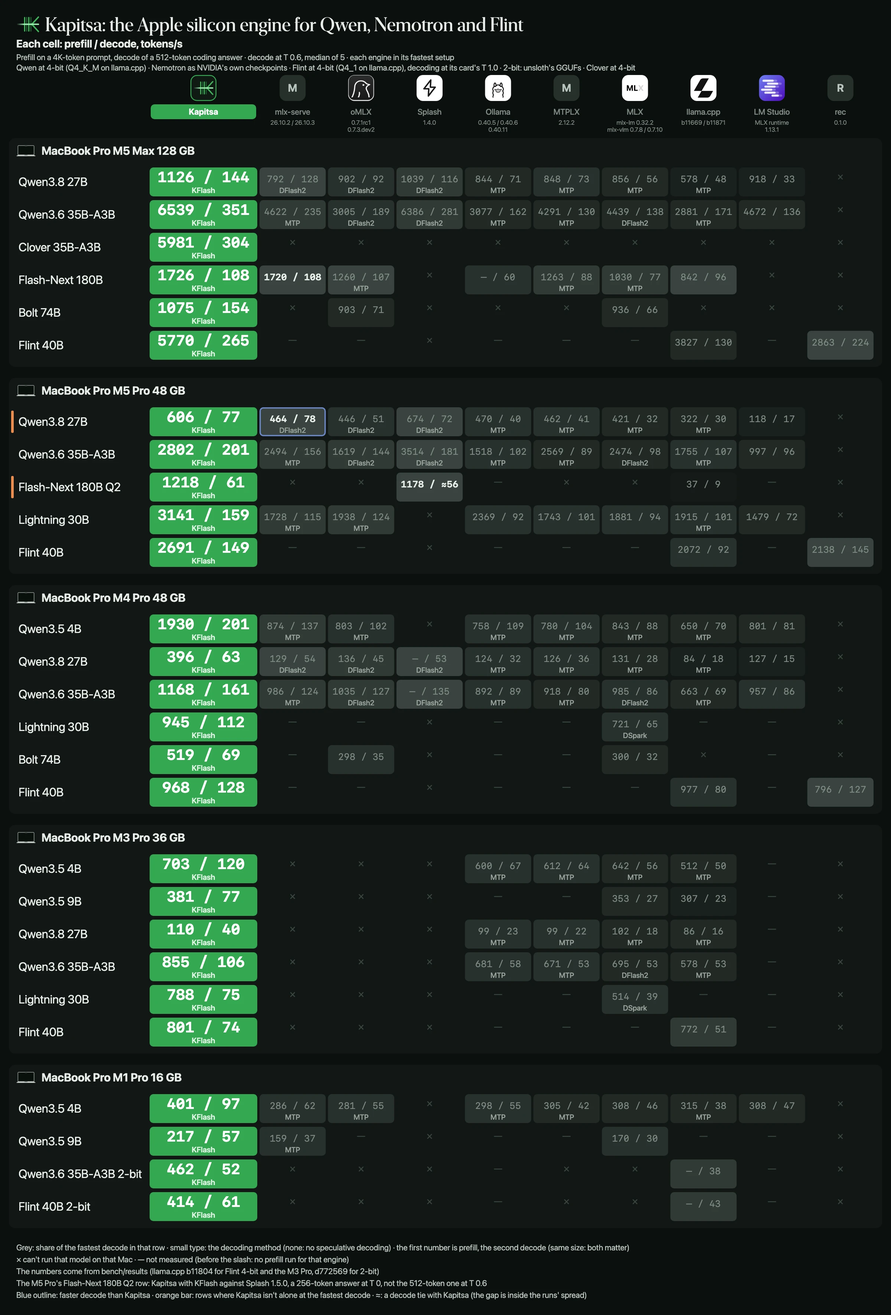
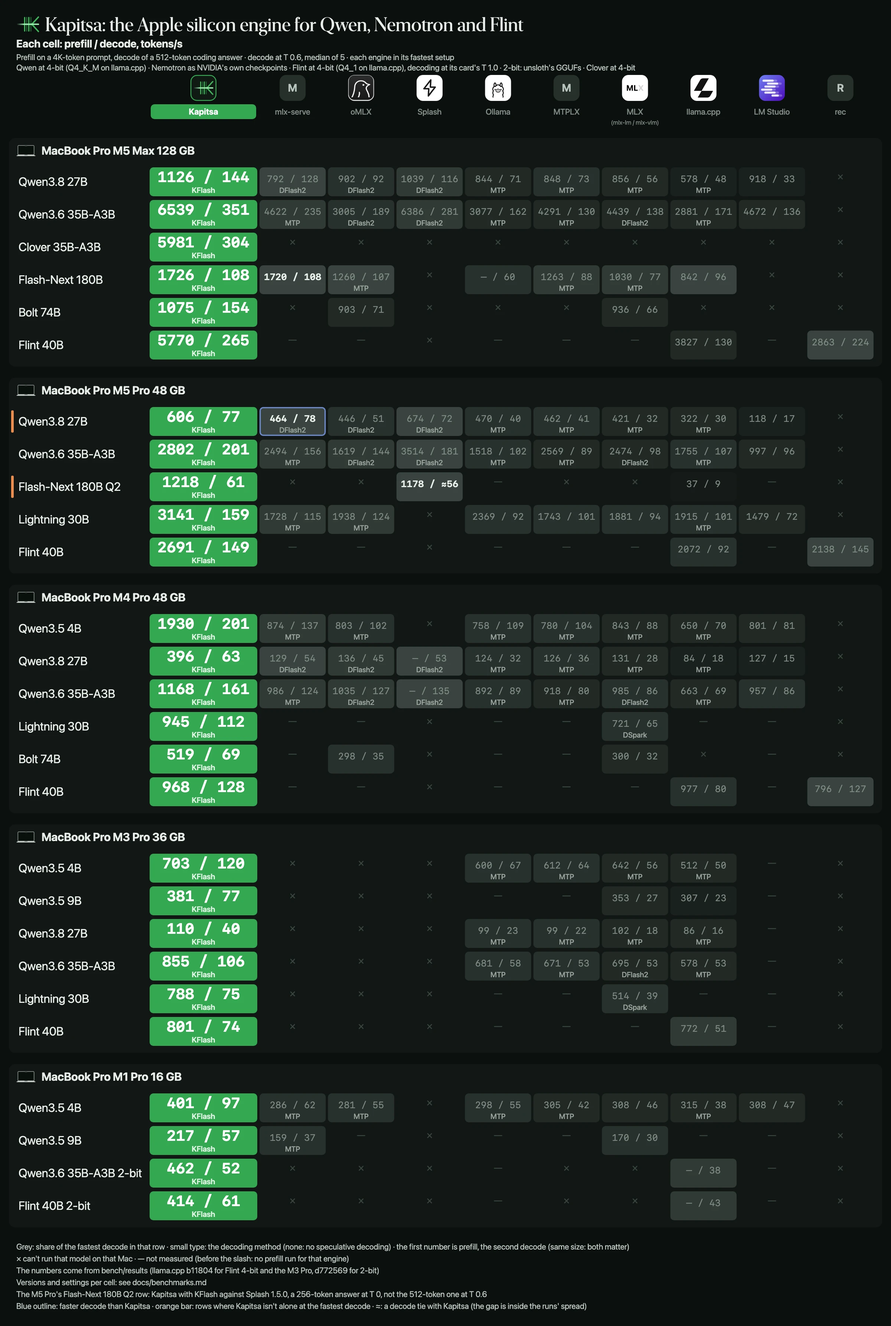
README poster: rival versions per cell, not per column
Column headers name the engine (MLX reads (mlx-lm / mlx-vlm)); each rival cell carries its own version in its detail, from the header it had before. Poster footer points at docs/benchmarks.md. Test: every rival cell has a version in its detail or a line in docs/benchmarks.md.

diff --git a/tests/test_readme_images.py b/tests/test_readme_images.py
@@ -44,4 +44,20 @@ for kind in ("prefill", "decode"):
     html, w, h = ri.context_chart(data, "light", kind)
     assert html.count("<polyline") == 2 * len(C["models"]) and w == data["poster"]["size"][0], kind  # line, leader
     assert ri.context_alt(data, kind).startswith(C[kind]["alt"] + ": " + C["models"][0]["model"]), kind
+# column headers name an engine, never a version, so every rival number carries its version in its own cell detail
+# (tables and README), or else the line that names it in docs/benchmarks.md, which the poster footer points at
+import re
+docs = open(os.path.join(HERE, "..", "docs", "benchmarks.md"), encoding="utf-8").read().split("\n")
+assert not any(e.get("version") and e["name"] != "MLX" for e in data["engines"]), "a rival column header names a version"
+assert not any(re.search(r"\d", v) for m in data["tables"]["macs"] for v in m.get("versions", {}).values()), "a Mac's header names a version"
+rival_cells = [(m["name"], r["model"], e, c) for m in data["poster"]["macs"] + data["tables"]["macs"] for r in m["rows"]
+               for e, c in r["cells"].items() if e != "Kapitsa" and isinstance(c, (dict, int, float)) and not isinstance(c, bool)]
+assert rival_cells
+for mac, model, e, c in rival_cells:
+    detail = c.get("detail", "") if isinstance(c, dict) else ""
+    in_docs = any(e.split()[0] in line and re.search(r"\d+\.\d+|\bb\d{4,5}\b", line) for line in docs)
+    assert re.search(r"\d", detail) or in_docs, f"{mac} / {model} / {e}: no version in its detail or in docs/benchmarks.md"
+for e in {e for _, _, e, _ in rival_cells}:  # the footer's claim: the doc names a version for every rival engine on the poster
+    assert any(e.split()[0] in line and re.search(r"\d+\.\d+|\bb\d{4,5}\b", line) for line in docs), f"docs/benchmarks.md names no version for {e}"
+assert any("docs/benchmarks.md" in x for x in data["poster"]["footer"])
 print(f"test_readme_images: ok ({n} Kapitsa cells)")

diff --git a/README.md b/README.md
@@ -145,21 +145,21 @@ The catalog models measured on each Mac, against the engines that run them: one 
 
 **Qwen and Nemotron**
 
-| Model | <mark>**Kapitsa**</mark> | <sub>mlx‑serve<br>26.10.2 / 26.10.3</sub> | <sub>oMLX<br>0.7.1rc1 / 0.7.3.dev2</sub> | <sub>Splash<br>1.4.0</sub> | <sub>Ollama<br>0.40.5 / 0.40.11</sub> | <sub>MTPLX<br>2.12.2</sub> | <sub>MLX<br>mlx-vlm 0.7.8 / 0.7.10</sub> | <sub>llama.cpp<br>b11669 / b11871</sub> | <sub>LM&nbsp;Studio<br>MLX runtime 1.13.1 (nax), llama.cpp runtime 2.60.0</sub> |
+| Model | <mark>**Kapitsa**</mark> | <sub>mlx‑serve</sub> | <sub>oMLX</sub> | <sub>Splash</sub> | <sub>Ollama</sub> | <sub>MTPLX</sub> | <sub>MLX<br>(mlx-lm / mlx-vlm)</sub> | <sub>llama.cpp</sub> | <sub>LM&nbsp;Studio</sub> |
 | --- | ---: | ---: | ---: | ---: | ---: | ---: | ---: | ---: | ---: |
-| **Qwen3.8-27B** · `27b`<br><sub>dense · 4-bit, 20.2 GB</sub> | 🟩 1126 / **144**<br><sub>KFlash · 7afb51d</sub> | 792 / 128<br><sub>DFlash2 · 26.10.3</sub> | 902 / 92<br><sub>DFlash2 · 0.7.3.dev2</sub> | 1039 / 116<br><sub>DFlash2</sub> | 844 / 71<br><sub>MTP · 0.40.11, MLX runner</sub> | 848 / 73<br><sub>MTP</sub> | 856 / 56<br><sub>MTP · mlx-vlm 0.7.10</sub> | 578 / 48<br><sub>MTP · b11871</sub> | 918 / 33<br><sub>MLX runtime 1.13.1 (nax)</sub> |
-| **Qwen3.6-35B-A3B** · `35b`<br><sub>MoE, 3B active · 4-bit, 22.1 GB</sub> | 🟩 6539 / **351**<br><sub>KFlash · 39f20c8</sub> | 4622 / 235<br><sub>MTP · 26.10.3</sub> | 3005 / 189<br><sub>DFlash2 · 0.7.3.dev2</sub> | 6386 / 281<br><sub>DFlash2</sub> | 3077 / 162<br><sub>MTP · 0.40.11, MLX runner</sub> | 4291 / 130<br><sub>MTP</sub> | 4439 / 138<br><sub>DFlash2 · mlx-vlm 0.7.10</sub> | 2881 / 171<br><sub>MTP · b11669</sub> | 4672 / 136<br><sub>MLX runtime 1.13.1 (nax)</sub> |
-| **Qwen3.8-Flash-Next 180B-A7B** · `flash-next`<br><sub>MoE, 7B active · 4-bit, 105.9 GB</sub> | 🟩 1726 / **108**<br><sub>KFlash · af7d795</sub> | 🟩 1720 / **108**<br><sub>26.10.2</sub> | 1260 / 107<br><sub>MTP · 0.7.1rc1</sub> | × | 60<br><sub>0.40.6</sub> | 1263 / 88<br><sub>MTP</sub> | 1030 / 77<br><sub>MTP · mlx-vlm 0.7.8</sub> | 842 / 96<br><sub>b11669</sub> | × |
+| **Qwen3.8-27B** · `27b`<br><sub>dense · 4-bit, 20.2 GB</sub> | 🟩 1126 / **144**<br><sub>KFlash · 7afb51d</sub> | 792 / 128<br><sub>DFlash2 · 26.10.3</sub> | 902 / 92<br><sub>DFlash2 · 0.7.3.dev2</sub> | 1039 / 116<br><sub>DFlash2 · 1.4.0</sub> | 844 / 71<br><sub>MTP · 0.40.11, MLX runner</sub> | 848 / 73<br><sub>MTP · 2.12.2</sub> | 856 / 56<br><sub>MTP · mlx-vlm 0.7.10</sub> | 578 / 48<br><sub>MTP · b11871</sub> | 918 / 33<br><sub>MLX runtime 1.13.1 (nax)</sub> |
+| **Qwen3.6-35B-A3B** · `35b`<br><sub>MoE, 3B active · 4-bit, 22.1 GB</sub> | 🟩 6539 / **351**<br><sub>KFlash · 39f20c8</sub> | 4622 / 235<br><sub>MTP · 26.10.3</sub> | 3005 / 189<br><sub>DFlash2 · 0.7.3.dev2</sub> | 6386 / 281<br><sub>DFlash2 · 1.4.0</sub> | 3077 / 162<br><sub>MTP · 0.40.11, MLX runner</sub> | 4291 / 130<br><sub>MTP · 2.12.2</sub> | 4439 / 138<br><sub>DFlash2 · mlx-vlm 0.7.10</sub> | 2881 / 171<br><sub>MTP · b11669</sub> | 4672 / 136<br><sub>MLX runtime 1.13.1 (nax)</sub> |
+| **Qwen3.8-Flash-Next 180B-A7B** · `flash-next`<br><sub>MoE, 7B active · 4-bit, 105.9 GB</sub> | 🟩 1726 / **108**<br><sub>KFlash · af7d795</sub> | 🟩 1720 / **108**<br><sub>26.10.2</sub> | 1260 / 107<br><sub>MTP · 0.7.1rc1</sub> | × | 60<br><sub>0.40.6</sub> | 1263 / 88<br><sub>MTP · 2.12.2</sub> | 1030 / 77<br><sub>MTP · mlx-vlm 0.7.8</sub> | 842 / 96<br><sub>b11669</sub> | × |
 | **Nemotron Dory1.0 4B** · `dory`<br><sub>looped dense · NVFP4, 3.2 GB</sub> | 🟩 **122**<br><sub>KFlash · 7f4e709</sub> | × | × | × | × | × | 76<br><sub>mlx-vlm 0.7.8</sub> | 9<br><sub>b11669</sub> | × |
-| **Nemotron 3.5 Lightning 30B-A3B** · `lightning`<br><sub>hybrid MoE, 3B active · NVFP4, 22.9 GB</sub> | 🟩 **287**<br><sub>KFlash · 7f4e709</sub> | 190<br><sub>26.10.2</sub> | 190<br><sub>0.7.1rc1</sub> | × | 153<br><sub>0.40.5</sub> | 131 | 139<br><sub>mlx-vlm 0.7.8</sub> | 159<br><sub>b11669</sub> | 110<br><sub>llama.cpp runtime 2.60.0</sub> |
+| **Nemotron 3.5 Lightning 30B-A3B** · `lightning`<br><sub>hybrid MoE, 3B active · NVFP4, 22.9 GB</sub> | 🟩 **287**<br><sub>KFlash · 7f4e709</sub> | 190<br><sub>26.10.2</sub> | 190<br><sub>0.7.1rc1</sub> | × | 153<br><sub>0.40.5</sub> | 131<br><sub>2.12.2</sub> | 139<br><sub>mlx-vlm 0.7.8</sub> | 159<br><sub>b11669</sub> | 110<br><sub>llama.cpp runtime 2.60.0</sub> |
 | **Nemotron 3.5 Bolt 74B-A9B** · `bolt`<br><sub>hybrid MoE, 9B active · 2/4/8-bit mix, 25.1 GB</sub> | 🟩 1075 / **154**<br><sub>KFlash · 7f4e709</sub> | × | 903 / 71<br><sub>0.7.3.dev2</sub> | × | × | × | 936 / 66<br><sub>mlx-vlm 0.7.10</sub> | × | × |
-| **Nemotron 3.5 Super-VL 120B-A12B** · `super`<br><sub>hybrid MoE, 12B active · NVFP4, 76.4 GB</sub> | 🟩 **87**<br><sub>KFlash · 7f4e709</sub> | × | 52<br><sub>0.7.1rc1</sub> | × | 64<br><sub>0.40.5</sub> | 44 | 46<br><sub>mlx-vlm 0.7.8</sub> | 66<br><sub>b11669</sub> | 61<br><sub>llama.cpp runtime 2.60.0</sub> |
+| **Nemotron 3.5 Super-VL 120B-A12B** · `super`<br><sub>hybrid MoE, 12B active · NVFP4, 76.4 GB</sub> | 🟩 **87**<br><sub>KFlash · 7f4e709</sub> | × | 52<br><sub>0.7.1rc1</sub> | × | 64<br><sub>0.40.5</sub> | 44<br><sub>2.12.2</sub> | 46<br><sub>mlx-vlm 0.7.8</sub> | 66<br><sub>b11669</sub> | 61<br><sub>llama.cpp runtime 2.60.0</sub> |
 
 **Recursive Flint**
 
-| Model | <mark>**Kapitsa**</mark> | <sub>llama.cpp<br>Q4_1, b11871</sub> | <sub>rec<br>0.1.0</sub> |
+| Model | <mark>**Kapitsa**</mark> | <sub>llama.cpp</sub> | <sub>rec</sub> |
 | --- | ---: | ---: | ---: |
-| **Recursive Flint 40B-A2.5B** · `flint`<br><sub>MoE, 2.5B active · 4-bit, 22.6 GB</sub> | 🟩 5770 / **265**<br><sub>KFlash</sub> | 3827 / 130 | 2863 / 224 |
+| **Recursive Flint 40B-A2.5B** · `flint`<br><sub>MoE, 2.5B active · 4-bit, 22.6 GB</sub> | 🟩 5770 / **265**<br><sub>KFlash</sub> | 3827 / 130<br><sub>Q4_1, b11871</sub> | 2863 / 224<br><sub>0.1.0</sub> |
 
 **DiffuSpace Clover**
 
@@ -176,20 +176,20 @@ The catalog models measured on each Mac, against the engines that run them: one 
 
 **Qwen and Nemotron**
 
-| Model | <mark>**Kapitsa**</mark> | <sub>mlx‑serve<br>26.10.2</sub> | <sub>oMLX<br>0.7.1rc1</sub> | <sub>Splash<br>1.4.0</sub> | <sub>Ollama<br>0.40.5 / 0.40.6</sub> | <sub>MTPLX<br>2.12.2</sub> | <sub>MLX<br>mlx-lm 0.32.2, mlx-vlm 0.7.8</sub> | <sub>llama.cpp<br>b11669 / b11871</sub> | <sub>LM&nbsp;Studio<br>MLX runtime 1.13.1, llama.cpp runtime 2.60.0</sub> |
+| Model | <mark>**Kapitsa**</mark> | <sub>mlx‑serve</sub> | <sub>oMLX</sub> | <sub>Splash</sub> | <sub>Ollama</sub> | <sub>MTPLX</sub> | <sub>MLX<br>(mlx-lm / mlx-vlm)</sub> | <sub>llama.cpp</sub> | <sub>LM&nbsp;Studio</sub> |
 | --- | ---: | ---: | ---: | ---: | ---: | ---: | ---: | ---: | ---: |
-| **Qwen3.8-27B** · `27b`<br><sub>dense · 4-bit, 20.2 GB</sub> | 606 / 77<br><sub>KFlash</sub> | 🟩 464 / **78**<br><sub>DFlash2</sub> | 446 / 51<br><sub>DFlash2</sub> | 674 / 72<br><sub>DFlash2</sub> | 470 / 40<br><sub>MTP</sub> | 462 / 41<br><sub>MTP</sub> | 421 / 32<br><sub>MTP</sub> | 322 / 30<br><sub>MTP</sub> | 118 / 17 |
-| **Qwen3.6-35B-A3B** · `35b`<br><sub>MoE, 3B active · 4-bit, 22.1 GB</sub> | 🟩 2802 / **201**<br><sub>KFlash</sub> | 2494 / 156<br><sub>MTP</sub> | 1619 / 144<br><sub>DFlash2</sub> | 3514 / 181<br><sub>DFlash2</sub> | 1518 / 102<br><sub>MTP</sub> | 2569 / 89<br><sub>MTP</sub> | 2474 / 98<br><sub>DFlash2</sub> | 1755 / 107<br><sub>MTP</sub> | 997 / 96 |
+| **Qwen3.8-27B** · `27b`<br><sub>dense · 4-bit, 20.2 GB</sub> | 606 / 77<br><sub>KFlash</sub> | 🟩 464 / **78**<br><sub>DFlash2 · 26.10.2</sub> | 446 / 51<br><sub>DFlash2 · 0.7.1rc1</sub> | 674 / 72<br><sub>DFlash2 · 1.4.0</sub> | 470 / 40<br><sub>MTP · 0.40.5 / 0.40.6</sub> | 462 / 41<br><sub>MTP · 2.12.2</sub> | 421 / 32<br><sub>MTP · mlx-lm 0.32.2, mlx-vlm 0.7.8</sub> | 322 / 30<br><sub>MTP · b11669 / b11871</sub> | 118 / 17<br><sub>MLX runtime 1.13.1, llama.cpp runtime 2.60.0</sub> |
+| **Qwen3.6-35B-A3B** · `35b`<br><sub>MoE, 3B active · 4-bit, 22.1 GB</sub> | 🟩 2802 / **201**<br><sub>KFlash</sub> | 2494 / 156<br><sub>MTP · 26.10.2</sub> | 1619 / 144<br><sub>DFlash2 · 0.7.1rc1</sub> | 3514 / 181<br><sub>DFlash2 · 1.4.0</sub> | 1518 / 102<br><sub>MTP · 0.40.5 / 0.40.6</sub> | 2569 / 89<br><sub>MTP · 2.12.2</sub> | 2474 / 98<br><sub>DFlash2 · mlx-lm 0.32.2, mlx-vlm 0.7.8</sub> | 1755 / 107<br><sub>MTP · b11669 / b11871</sub> | 997 / 96<br><sub>MLX runtime 1.13.1, llama.cpp runtime 2.60.0</sub> |
 | **Qwen3.8-Flash-Next 180B-A7B** · `flash-next`<br><sub>MoE, 7B active · Q2_0 experts streamed from the SSD</sub> | 🟩 1218 / **61**<br><sub>KFlash · e67b764f</sub> | × | × | 1178 / **≈56**<br><sub>1.5.0</sub> | — | × | × | 37 / 9<br><sub>c7474afc</sub> | — |
-| **Nemotron Dory1.0 4B** · `dory`<br><sub>looped dense · NVFP4, 3.2 GB</sub> | 🟩 **70**<br><sub>KFlash</sub> | × | × | × | × | × | 53 | 13 | × |
-| **Nemotron 3.5 Lightning 30B-A3B** · `lightning`<br><sub>hybrid MoE, 3B active · NVFP4, 22.9 GB</sub> | 🟩 3141 / **159**<br><sub>KFlash</sub> | 1728 / 115<br><sub>MTP</sub> | 1938 / 124<br><sub>MTP</sub> | × | 2369 / 92 | 1743 / 101 | 1881 / 94 | 1915 / 101<br><sub>MTP</sub> | 1479 / 72 |
-| **Nemotron 3.5 Bolt 74B-A9B** · `bolt`<br><sub>hybrid MoE, 9B active · 2/4/8-bit mix, 25.1 GB</sub> | 🟩 **79**<br><sub>KFlash</sub> | × | 39 | × | × | × | 41 | × | × |
+| **Nemotron Dory1.0 4B** · `dory`<br><sub>looped dense · NVFP4, 3.2 GB</sub> | 🟩 **70**<br><sub>KFlash</sub> | × | × | × | × | × | 53<br><sub>mlx-lm 0.32.2, mlx-vlm 0.7.8</sub> | 13<br><sub>b11669 / b11871</sub> | × |
+| **Nemotron 3.5 Lightning 30B-A3B** · `lightning`<br><sub>hybrid MoE, 3B active · NVFP4, 22.9 GB</sub> | 🟩 3141 / **159**<br><sub>KFlash</sub> | 1728 / 115<br><sub>MTP · 26.10.2</sub> | 1938 / 124<br><sub>MTP · 0.7.1rc1</sub> | × | 2369 / 92<br><sub>0.40.5 / 0.40.6</sub> | 1743 / 101<br><sub>2.12.2</sub> | 1881 / 94<br><sub>mlx-lm 0.32.2, mlx-vlm 0.7.8</sub> | 1915 / 101<br><sub>MTP · b11669 / b11871</sub> | 1479 / 72<br><sub>MLX runtime 1.13.1, llama.cpp runtime 2.60.0</sub> |
+| **Nemotron 3.5 Bolt 74B-A9B** · `bolt`<br><sub>hybrid MoE, 9B active · 2/4/8-bit mix, 25.1 GB</sub> | 🟩 **79**<br><sub>KFlash</sub> | × | 39<br><sub>0.7.1rc1</sub> | × | × | × | 41<br><sub>mlx-lm 0.32.2, mlx-vlm 0.7.8</sub> | × | × |
 
 **Recursive Flint**
 
-| Model | <mark>**Kapitsa**</mark> | <sub>llama.cpp<br>b11804</sub> | <sub>rec<br>0.1.0</sub> |
+| Model | <mark>**Kapitsa**</mark> | <sub>llama.cpp</sub> | <sub>rec</sub> |
 | --- | ---: | ---: | ---: |
-| **Recursive Flint 40B-A2.5B** · `flint`<br><sub>MoE, 2.5B active · 4-bit, 22.6 GB</sub> | 🟩 2691 / **149**<br><sub>KFlash</sub> | 2072 / 92 | 2138 / 145 |
+| **Recursive Flint 40B-A2.5B** · `flint`<br><sub>MoE, 2.5B active · 4-bit, 22.6 GB</sub> | 🟩 2691 / **149**<br><sub>KFlash</sub> | 2072 / 92<br><sub>b11804</sub> | 2138 / 145<br><sub>0.1.0</sub> |
 
 <sub>Qwen3.8-Flash-Next 180B-A7B does not fit in 48 GB, so both engines stream its experts from the SSD. With Q2_0 weights on both and Kapitsa's expert store pinned at 24 GB (the auto size here is about 29.9 GB, but four runs at that size were stopped at memory pressure), Kapitsa's prefill is behind on short prompts, level at 4K and 16K and 2.7% ahead at 32K: not the fastest everywhere (correction, 24 Oct: on Kapitsa's warm second leg alone its prefill is 13.5-14.5% behind at 1K, level at 4K and a few percent ahead at 16K and 32K; [numbers and caveats](docs/benchmarks.md#qwen38-flash-next-streamed-from-the-ssd-kapitsa-against-llamacpp-m5-pro-48-gb-2026-10-24)). The Flash-Next 180B Q2 row's Kapitsa and Splash cells are a 2026-10-30 re-measure ([record](bench/results/2026-10-30-m5-pro-flash-next-kflash/README.md)): Kapitsa at main `e67b764f` running **KFlash** against the plain Splash 1.5.0 release, both at `--expert-memory 16G --idle-release off`, interleaved K S K S, 5 legs per arm of 2 runs each, with the scripts of the 2026-10-27 run. Its decode is a 256-token answer at T 0, not this table's 512-token answer at T 0.6, counted from the first token to the last over 10 requests per engine; its 4K prefill is prompt tokens over time to first token on that run's own 4,074-token prompt, against this table's 4,133. Kapitsa read 61.3 decode (53.7-64.7) and 1,218 prefill (976-1,269) against Splash's 56.5 (51.9-60.2) and 1,178 (1,040-1,262): the ranges overlap, so by the rule registered before the run it is a tie, not a win. KFlash's interleaved A/B at `--expert-memory 20G` (29 Oct, more runs per arm) measured decode 1.101x and 4K prefill 1.004x the release, the same tokens as the release on 6 prompts × 22 runs ([numbers](docs/benchmarks.md#m5-pro)). The llama.cpp cell is the 2026-10-27 four-engine run, PR #751 ([record](bench/results/2026-10-28-m5-pro-flash-next-engines/README.md)), 2 requests. Kapitsa's own engine ran in that record too, with MTP depth 2 and its expert store pinned at 24 GB, not sized from free memory: 847 prefill and 53.7 decode at T 0, but three of its legs were stopped at memory-pressure level 4, with up to 4.5 GB of swap, late in the leg (16K prefill or turn 2), so its 16K and turn-2 cells have 9 runs against 12. Ollama and LM Studio were not run on that Q2_0 pack, so their cells are dashes, and mlx-serve, oMLX, MTPLX and MLX have no pack of this model that fits 48 GB.</sub>
 
@@ -200,20 +200,20 @@ The catalog models measured on each Mac, against the engines that run them: one 
 
 **Qwen and Nemotron**
 
-| Model | <mark>**Kapitsa**</mark> | <sub>mlx‑serve<br>26.10.2</sub> | <sub>oMLX<br>0.7.1rc1</sub> | <sub>Splash<br>1.4.0</sub> | <sub>Ollama<br>0.40.5 / 0.40.6</sub> | <sub>MTPLX<br>2.12.2</sub> | <sub>MLX<br>mlx-lm 0.32.2, mlx-vlm 0.7.8</sub> | <sub>llama.cpp<br>b11669 / b11871</sub> | <sub>LM&nbsp;Studio<br>MLX runtime 1.13.1, llama.cpp runtime 2.60.0</sub> |
+| Model | <mark>**Kapitsa**</mark> | <sub>mlx‑serve</sub> | <sub>oMLX</sub> | <sub>Splash</sub> | <sub>Ollama</sub> | <sub>MTPLX</sub> | <sub>MLX<br>(mlx-lm / mlx-vlm)</sub> | <sub>llama.cpp</sub> | <sub>LM&nbsp;Studio</sub> |
 | --- | ---: | ---: | ---: | ---: | ---: | ---: | ---: | ---: | ---: |
-| **Qwen3.5-4B** · `4b`<br><sub>dense · 4-bit, 4.6 GB</sub> | 🟩 1930 / **201**<br><sub>KFlash</sub> | 874 / 137<br><sub>MTP</sub> | 803 / 102<br><sub>MTP</sub> | × | 758 / 109<br><sub>MTP</sub> | 780 / 104<br><sub>MTP</sub> | 843 / 88<br><sub>MTP</sub> | 650 / 70<br><sub>MTP</sub> | 801 / 81 |
-| **Qwen3.8-27B** · `27b`<br><sub>dense · 4-bit, 20.2 GB</sub> | 🟩 396 / **63**<br><sub>KFlash</sub> | 129 / 54<br><sub>DFlash2</sub> | 136 / 45<br><sub>DFlash2</sub> | 53<br><sub>DFlash2</sub> | 124 / 32<br><sub>MTP</sub> | 126 / 36<br><sub>MTP</sub> | 131 / 28<br><sub>MTP</sub> | 84 / 18<br><sub>MTP</sub> | 127 / 15 |
-| **Qwen3.6-35B-A3B** · `35b`<br><sub>MoE, 3B active · 4-bit, 22.1 GB</sub> | 🟩 1168 / **161**<br><sub>KFlash</sub> | 986 / 124<br><sub>MTP</sub> | 1035 / 127<br><sub>DFlash2</sub> | 135<br><sub>DFlash2</sub> | 892 / 89<br><sub>MTP</sub> | 918 / 80<br><sub>MTP</sub> | 985 / 86<br><sub>DFlash2</sub> | 663 / 69<br><sub>MTP</sub> | 957 / 86 |
-| **Nemotron Dory1.0 4B** · `dory`<br><sub>looped dense · NVFP4, 3.2 GB</sub> | 🟩 **64**<br><sub>KFlash</sub> | × | × | × | × | × | 48 | 6 | × |
-| **Nemotron 3.5 Lightning 30B-A3B** · `lightning`<br><sub>hybrid MoE, 3B active · NVFP4, 22.9 GB</sub> | 🟩 945 / **112**<br><sub>KFlash</sub> | — | — | × | — | — | 721 / 65<br><sub>DSpark</sub> | — | — |
-| **Nemotron 3.5 Bolt 74B-A9B** · `bolt`<br><sub>hybrid MoE, 9B active · 2/4/8-bit mix, 25.1 GB</sub> | 🟩 519 / **69**<br><sub>KFlash</sub> | — | 298 / 35 | × | — | — | 300 / 32 | × | — |
+| **Qwen3.5-4B** · `4b`<br><sub>dense · 4-bit, 4.6 GB</sub> | 🟩 1930 / **201**<br><sub>KFlash</sub> | 874 / 137<br><sub>MTP · 26.10.2</sub> | 803 / 102<br><sub>MTP · 0.7.1rc1</sub> | × | 758 / 109<br><sub>MTP · 0.40.5 / 0.40.6</sub> | 780 / 104<br><sub>MTP · 2.12.2</sub> | 843 / 88<br><sub>MTP · mlx-lm 0.32.2, mlx-vlm 0.7.8</sub> | 650 / 70<br><sub>MTP · b11669 / b11871</sub> | 801 / 81<br><sub>MLX runtime 1.13.1, llama.cpp runtime 2.60.0</sub> |
+| **Qwen3.8-27B** · `27b`<br><sub>dense · 4-bit, 20.2 GB</sub> | 🟩 396 / **63**<br><sub>KFlash</sub> | 129 / 54<br><sub>DFlash2 · 26.10.2</sub> | 136 / 45<br><sub>DFlash2 · 0.7.1rc1</sub> | 53<br><sub>DFlash2 · 1.4.0</sub> | 124 / 32<br><sub>MTP · 0.40.5 / 0.40.6</sub> | 126 / 36<br><sub>MTP · 2.12.2</sub> | 131 / 28<br><sub>MTP · mlx-lm 0.32.2, mlx-vlm 0.7.8</sub> | 84 / 18<br><sub>MTP · b11669 / b11871</sub> | 127 / 15<br><sub>MLX runtime 1.13.1, llama.cpp runtime 2.60.0</sub> |
+| **Qwen3.6-35B-A3B** · `35b`<br><sub>MoE, 3B active · 4-bit, 22.1 GB</sub> | 🟩 1168 / **161**<br><sub>KFlash</sub> | 986 / 124<br><sub>MTP · 26.10.2</sub> | 1035 / 127<br><sub>DFlash2 · 0.7.1rc1</sub> | 135<br><sub>DFlash2 · 1.4.0</sub> | 892 / 89<br><sub>MTP · 0.40.5 / 0.40.6</sub> | 918 / 80<br><sub>MTP · 2.12.2</sub> | 985 / 86<br><sub>DFlash2 · mlx-lm 0.32.2, mlx-vlm 0.7.8</sub> | 663 / 69<br><sub>MTP · b11669 / b11871</sub> | 957 / 86<br><sub>MLX runtime 1.13.1, llama.cpp runtime 2.60.0</sub> |
+| **Nemotron Dory1.0 4B** · `dory`<br><sub>looped dense · NVFP4, 3.2 GB</sub> | 🟩 **64**<br><sub>KFlash</sub> | × | × | × | × | × | 48<br><sub>mlx-lm 0.32.2, mlx-vlm 0.7.8</sub> | 6<br><sub>b11669 / b11871</sub> | × |
+| **Nemotron 3.5 Lightning 30B-A3B** · `lightning`<br><sub>hybrid MoE, 3B active · NVFP4, 22.9 GB</sub> | 🟩 945 / **112**<br><sub>KFlash</sub> | — | — | × | — | — | 721 / 65<br><sub>DSpark · mlx-lm 0.32.2, mlx-vlm 0.7.8</sub> | — | — |
+| **Nemotron 3.5 Bolt 74B-A9B** · `bolt`<br><sub>hybrid MoE, 9B active · 2/4/8-bit mix, 25.1 GB</sub> | 🟩 519 / **69**<br><sub>KFlash</sub> | — | 298 / 35<br><sub>0.7.1rc1</sub> | × | — | — | 300 / 32<br><sub>mlx-lm 0.32.2, mlx-vlm 0.7.8</sub> | × | — |
 
 **Recursive Flint**
 
-| Model | <mark>**Kapitsa**</mark> | <sub>llama.cpp<br>b11804</sub> | <sub>rec<br>0.1.0</sub> |
+| Model | <mark>**Kapitsa**</mark> | <sub>llama.cpp</sub> | <sub>rec</sub> |
 | --- | ---: | ---: | ---: |
-| **Recursive Flint 40B-A2.5B** · `flint`<br><sub>MoE, 2.5B active · 4-bit, 22.6 GB</sub> | 🟩 968 / **128**<br><sub>KFlash</sub> | 977 / 80 | 796 / 127 |
+| **Recursive Flint 40B-A2.5B** · `flint`<br><sub>MoE, 2.5B active · 4-bit, 22.6 GB</sub> | 🟩 968 / **128**<br><sub>KFlash</sub> | 977 / 80<br><sub>b11804</sub> | 796 / 127<br><sub>0.1.0</sub> |
 
 <sub>Splash's cells are Splash 1.4.0 at decode only (2026-10-21): Splash needs macOS 26.4 or later, and this MacBook is on 27.0.1. On an AWS EC2 Mac mini M4 Pro (48 GB, macOS 26.7) on 2026-10-28, Splash 1.4.1 read 1056 / 140 on the 35B-A3B and 251 / 50 on the 27B, against Kapitsa 0.2.23's 1171 / 169 and 392 / 65 on the same Mac ([record](bench/results/2026-10-28-m4pro-ec2-macos26/README.md)).</sub>
 
@@ -224,23 +224,23 @@ The catalog models measured on each Mac, against the engines that run them: one 
 
 **Qwen and Nemotron**
 
-| Model | <mark>**Kapitsa**</mark> | <sub>Ollama<br>0.40.8</sub> | <sub>MTPLX<br>2.12.2</sub> | <sub>MLX<br>mlx-lm 0.32.2, mlx-vlm 0.7.8</sub> | <sub>llama.cpp<br>b11669 / b11871</sub> |
+| Model | <mark>**Kapitsa**</mark> | <sub>Ollama</sub> | <sub>MTPLX</sub> | <sub>MLX<br>(mlx-lm / mlx-vlm)</sub> | <sub>llama.cpp</sub> |
 | --- | ---: | ---: | ---: | ---: | ---: |
-| **Qwen3.5-4B** · `4b`<br><sub>dense · 4-bit, 4.6 GB</sub> | 🟩 703 / **120**<br><sub>KFlash</sub> | 600 / 67<br><sub>MTP</sub> | 612 / 64<br><sub>MTP</sub> | 642 / 56<br><sub>MTP</sub> | 512 / 50<br><sub>MTP · b11804</sub> |
-| **Qwen3.5-9B** · `9b`<br><sub>dense · 4-bit, 9.0 GB</sub> | 🟩 381 / **77**<br><sub>KFlash</sub> | — | — | 353 / 27 | 307 / 23<br><sub>b11804</sub> |
-| **Qwen3.8-27B** · `27b`<br><sub>dense · 4-bit, 20.2 GB</sub> | 🟩 110 / **40**<br><sub>KFlash</sub> | 99 / 23<br><sub>MTP</sub> | 99 / 22<br><sub>MTP</sub> | 102 / 18<br><sub>MTP</sub> | 86 / 16<br><sub>MTP · b11804</sub> |
-| **Qwen3.6-35B-A3B** · `35b`<br><sub>MoE, 3B active · 4-bit, 22.1 GB</sub> | 🟩 855 / **106**<br><sub>KFlash</sub> | 681 / 58<br><sub>MTP</sub> | 671 / 53<br><sub>MTP</sub> | 695 / 53<br><sub>DFlash2</sub> | 578 / 53<br><sub>MTP · b11804</sub> |
-| **Nemotron Dory1.0 4B** · `dory`<br><sub>looped dense · NVFP4, 3.2 GB</sub> | 🟩 450 / **36**<br><sub>KFlash</sub> | × | × | 344 / 30 | — |
+| **Qwen3.5-4B** · `4b`<br><sub>dense · 4-bit, 4.6 GB</sub> | 🟩 703 / **120**<br><sub>KFlash</sub> | 600 / 67<br><sub>MTP · 0.40.8</sub> | 612 / 64<br><sub>MTP · 2.12.2</sub> | 642 / 56<br><sub>MTP · mlx-lm 0.32.2, mlx-vlm 0.7.8</sub> | 512 / 50<br><sub>MTP · b11804</sub> |
+| **Qwen3.5-9B** · `9b`<br><sub>dense · 4-bit, 9.0 GB</sub> | 🟩 381 / **77**<br><sub>KFlash</sub> | — | — | 353 / 27<br><sub>mlx-lm 0.32.2, mlx-vlm 0.7.8</sub> | 307 / 23<br><sub>b11804</sub> |
+| **Qwen3.8-27B** · `27b`<br><sub>dense · 4-bit, 20.2 GB</sub> | 🟩 110 / **40**<br><sub>KFlash</sub> | 99 / 23<br><sub>MTP · 0.40.8</sub> | 99 / 22<br><sub>MTP · 2.12.2</sub> | 102 / 18<br><sub>MTP · mlx-lm 0.32.2, mlx-vlm 0.7.8</sub> | 86 / 16<br><sub>MTP · b11804</sub> |
+| **Qwen3.6-35B-A3B** · `35b`<br><sub>MoE, 3B active · 4-bit, 22.1 GB</sub> | 🟩 855 / **106**<br><sub>KFlash</sub> | 681 / 58<br><sub>MTP · 0.40.8</sub> | 671 / 53<br><sub>MTP · 2.12.2</sub> | 695 / 53<br><sub>DFlash2 · mlx-lm 0.32.2, mlx-vlm 0.7.8</sub> | 578 / 53<br><sub>MTP · b11804</sub> |
+| **Nemotron Dory1.0 4B** · `dory`<br><sub>looped dense · NVFP4, 3.2 GB</sub> | 🟩 450 / **36**<br><sub>KFlash</sub> | × | × | 344 / 30<br><sub>mlx-lm 0.32.2, mlx-vlm 0.7.8</sub> | — |
 | **Nemotron 3 Nano 4B** · `nano-4b`<br><sub>hybrid Mamba-2 · FP8, 5.3 GB</sub> | 765 / 34<br><sub>KFlash</sub> | — | — | — | 🟩 413 / **35**<br><sub>Q4_K_M, b11804</sub> |
 | **Nemotron Nano 9B v2** · `nano-9b`<br><sub>hybrid Mamba-2 · NVFP4, 7.9 GB</sub> | 330 / 21<br><sub>KFlash</sub> | — | — | 🟩 **25**<br><sub>4-bit</sub> | — |
-| **Nemotron 3.5 Lightning 30B-A3B** · `lightning`<br><sub>hybrid MoE, 3B active · NVFP4, 22.9 GB</sub> | 🟩 788 / **75**<br><sub>KFlash</sub> | — | — | 514 / 39<br><sub>DSpark</sub> | — |
+| **Nemotron 3.5 Lightning 30B-A3B** · `lightning`<br><sub>hybrid MoE, 3B active · NVFP4, 22.9 GB</sub> | 🟩 788 / **75**<br><sub>KFlash</sub> | — | — | 514 / 39<br><sub>DSpark · mlx-lm 0.32.2, mlx-vlm 0.7.8</sub> | — |
 | **Nemotron 3.5 Bolt 74B-A9B** · `bolt`<br><sub>hybrid MoE, 9B active · 2/4/8-bit mix, 25.1 GB</sub> | 🟩 256 / **50**<br><sub>KFlash</sub> | — | — | — | — |
 
 **Recursive Flint**
 
-| Model | <mark>**Kapitsa**</mark> | <sub>llama.cpp<br>b11804</sub> |
+| Model | <mark>**Kapitsa**</mark> | <sub>llama.cpp</sub> |
 | --- | ---: | ---: |
-| **Recursive Flint 40B-A2.5B** · `flint`<br><sub>MoE, 2.5B active · 4-bit, 22.6 GB</sub> | 🟩 801 / **74**<br><sub>KFlash</sub> | 772 / 51 |
+| **Recursive Flint 40B-A2.5B** · `flint`<br><sub>MoE, 2.5B active · 4-bit, 22.6 GB</sub> | 🟩 801 / **74**<br><sub>KFlash</sub> | 772 / 51<br><sub>b11804</sub> |
 
 <sub>macOS 14.1, on AC power: Kapitsa's macOS 14 kernels (macOS 15 and later run fused ones). mlx-serve, oMLX and Splash need a newer macOS (×); LM Studio was not installed; rec 0.1.0 refuses this Mac: it requires 48 GiB. Each cell but Flint's is one run of the M4 Pro's protocol (Flint's is the mean of two runs, #341), the other engines in the M4 Pro's setup (not re-tuned here). Nano 4B and 9B v2: Kapitsa runs NVIDIA's published checkpoints, which keep some layers in BF16/FP8, so it reads more per token than the 4-bit files: the 4B's FP8 is ~1 byte per weight against Q4_K_M's ~0.6, the 9B's NVFP4 ~6.11 GB per token against 4.67 GB for mlx-lm's 4-bit. Nano 9B v2 on mlx-lm: no prefill shown, because its template ignores enable_thinking and the timed first token is a thinking token.</sub>
 
@@ -251,20 +251,20 @@ The catalog models measured on each Mac, against the engines that run them: one 
 
 **Qwen and Nemotron**
 
-| Model | <mark>**Kapitsa**</mark> | <sub>mlx‑serve<br>26.10.2</sub> | <sub>oMLX<br>0.7.1rc1</sub> | <sub>Ollama<br>0.40.5 / 0.40.6</sub> | <sub>MTPLX<br>2.12.2</sub> | <sub>MLX<br>mlx-lm 0.32.2, mlx-vlm 0.7.8</sub> | <sub>llama.cpp<br>b11669 / b11871</sub> | <sub>LM&nbsp;Studio<br>MLX runtime 1.13.1, llama.cpp runtime 2.60.0</sub> |
+| Model | <mark>**Kapitsa**</mark> | <sub>mlx‑serve</sub> | <sub>oMLX</sub> | <sub>Ollama</sub> | <sub>MTPLX</sub> | <sub>MLX<br>(mlx-lm / mlx-vlm)</sub> | <sub>llama.cpp</sub> | <sub>LM&nbsp;Studio</sub> |
 | --- | ---: | ---: | ---: | ---: | ---: | ---: | ---: | ---: |
-| **Qwen3.5-4B** · `4b`<br><sub>dense · 4-bit, 4.6 GB</sub> | 🟩 401 / **97**<br><sub>KFlash</sub> | 286 / 62<br><sub>MTP</sub> | 281 / 55<br><sub>MTP</sub> | 298 / 55<br><sub>MTP</sub> | 305 / 42<br><sub>MTP</sub> | 308 / 46 | 315 / 38<br><sub>MTP</sub> | 308 / 47 |
-| **Qwen3.5-9B** · `9b`<br><sub>dense · 4-bit, 9.0 GB</sub> | 🟩 217 / **57**<br><sub>KFlash</sub> | 159 / 37<br><sub>MTP</sub> | — | — | — | 170 / 30 | — | — |
-| **Qwen3.6-35B-A3B** · `35b:16gb`<br><sub>MoE, 3B active · 2-bit experts (unsloth's GGUF), 10.8 GB</sub> | 🟩 462 / **52**<br><sub>KFlash</sub> | × | × | — | × | × | 38 | — |
-| **Nemotron Dory1.0 4B** · `dory`<br><sub>looped dense · NVFP4, 3.2 GB</sub> | 🟩 **39**<br><sub>KFlash</sub> | × | × | × | × | 30 | 4 | × |
+| **Qwen3.5-4B** · `4b`<br><sub>dense · 4-bit, 4.6 GB</sub> | 🟩 401 / **97**<br><sub>KFlash</sub> | 286 / 62<br><sub>MTP · 26.10.2</sub> | 281 / 55<br><sub>MTP · 0.7.1rc1</sub> | 298 / 55<br><sub>MTP · 0.40.5 / 0.40.6</sub> | 305 / 42<br><sub>MTP · 2.12.2</sub> | 308 / 46<br><sub>mlx-lm 0.32.2, mlx-vlm 0.7.8</sub> | 315 / 38<br><sub>MTP · b11669 / b11871</sub> | 308 / 47<br><sub>MLX runtime 1.13.1, llama.cpp runtime 2.60.0</sub> |
+| **Qwen3.5-9B** · `9b`<br><sub>dense · 4-bit, 9.0 GB</sub> | 🟩 217 / **57**<br><sub>KFlash</sub> | 159 / 37<br><sub>MTP · 26.10.2</sub> | — | — | — | 170 / 30<br><sub>mlx-lm 0.32.2, mlx-vlm 0.7.8</sub> | — | — |
+| **Qwen3.6-35B-A3B** · `35b:16gb`<br><sub>MoE, 3B active · 2-bit experts (unsloth's GGUF), 10.8 GB</sub> | 🟩 462 / **52**<br><sub>KFlash</sub> | × | × | — | × | × | 38<br><sub>b11669 / b11871</sub> | — |
+| **Nemotron Dory1.0 4B** · `dory`<br><sub>looped dense · NVFP4, 3.2 GB</sub> | 🟩 **39**<br><sub>KFlash</sub> | × | × | × | × | 30<br><sub>mlx-lm 0.32.2, mlx-vlm 0.7.8</sub> | 4<br><sub>b11669 / b11871</sub> | × |
 | **Nemotron 3 Nano 4B** · `nano-4b`<br><sub>hybrid Mamba-2 · FP8, 5.3 GB</sub> | 🟩 **37**<br><sub>KFlash</sub> | — | — | — | — | 21<br><sub>BF16</sub> | 28<br><sub>Q4_K_M</sub> | — |
-| **Nemotron Nano 9B v2** · `nano-9b`<br><sub>hybrid Mamba-2 · NVFP4, 7.9 GB</sub> | 🟩 **25**<br><sub>KFlash</sub> | — | — | — | — | 18 | 14<br><sub>Q4_K_M</sub> | — |
+| **Nemotron Nano 9B v2** · `nano-9b`<br><sub>hybrid Mamba-2 · NVFP4, 7.9 GB</sub> | 🟩 **25**<br><sub>KFlash</sub> | — | — | — | — | 18<br><sub>mlx-lm 0.32.2, mlx-vlm 0.7.8</sub> | 14<br><sub>Q4_K_M</sub> | — |
 
 **Recursive Flint**
 
-| Model | <mark>**Kapitsa**</mark> | <sub>llama.cpp<br>d772569</sub> |
+| Model | <mark>**Kapitsa**</mark> | <sub>llama.cpp</sub> |
 | --- | ---: | ---: |
-| **Recursive Flint 40B-A2.5B** · `flint:16gb`<br><sub>MoE, 2.5B active · 2-bit experts (unsloth's GGUF), 11.9 GB</sub> | 🟩 414 / **61**<br><sub>KFlash</sub> | 43 |
+| **Recursive Flint 40B-A2.5B** · `flint:16gb`<br><sub>MoE, 2.5B active · 2-bit experts (unsloth's GGUF), 11.9 GB</sub> | 🟩 414 / **61**<br><sub>KFlash</sub> | 43<br><sub>d772569</sub> |
 
 </details>
 
